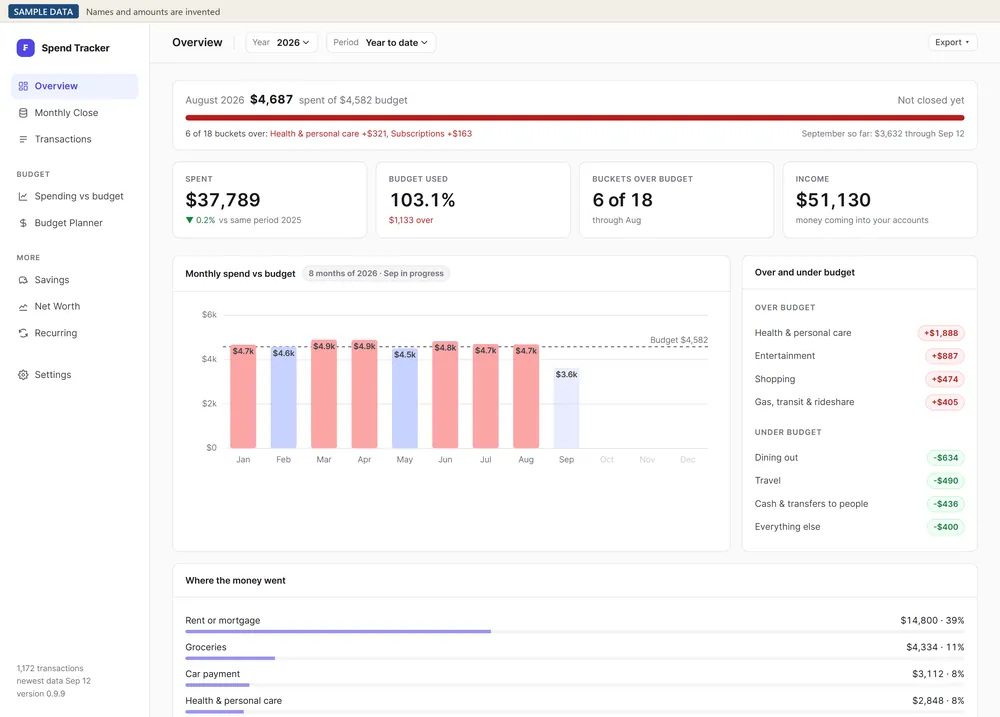
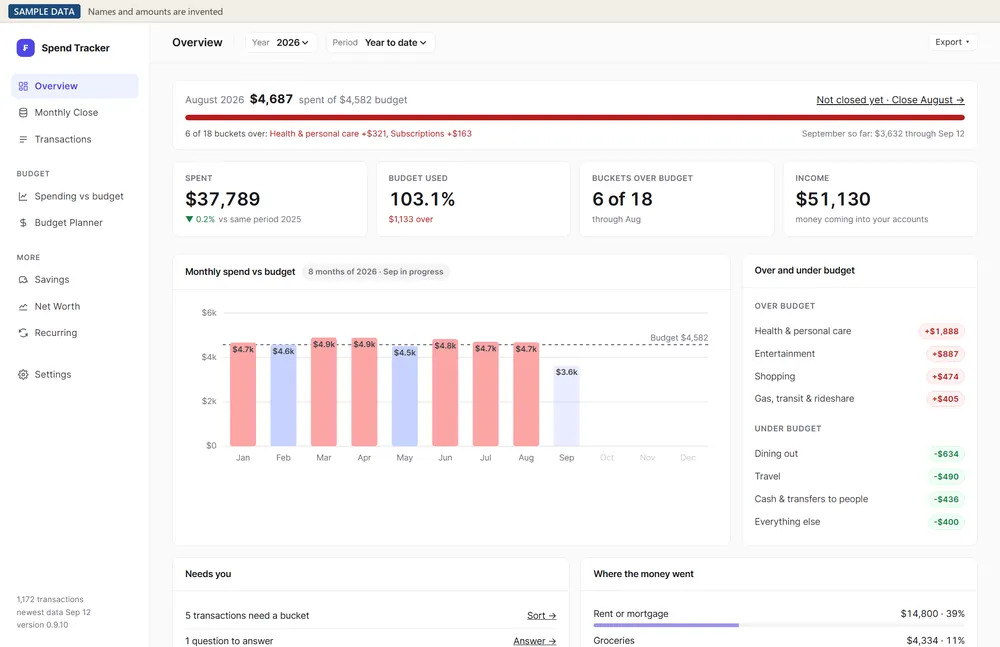
Spend Tracker 0.9.10: 652 tests, one-window app, new overview screenshot

diff --git a/case-studies/spend-tracker.html b/case-studies/spend-tracker.html
@@ -58,13 +58,13 @@ y=l.getElementsByTagName(r)[0];y.parentNode.insertBefore(t,y);
 <div><dt>Role</dt><dd>Built it. I decided what it does and how it behaves, and I test every build. Claude wrote the code, the tests and the docs.</dd></div>
 <div><dt>When</dt><dd>Started August 25, 2026. In testing now.</dd></div>
 <div><dt>Tools</dt><dd>Python (standard library only), JavaScript, GitHub Actions, Claude</dd></div>
-<div class="results"><dt>Results</dt><dd><ul><li>393 automated tests, all passing</li><li>Windows and Mac installers</li><li>Our household's monthly close runs on it</li></ul></dd></div>
+<div class="results"><dt>Results</dt><dd><ul><li>652 automated tests, all passing</li><li>Windows and Mac installers</li><li>Our household's monthly close runs on it</li></ul></dd></div>
 </dl>
 
 <p>You can <a href="https://github.com/growingtendies/spend-tracker/releases/latest" rel="noopener" target="_blank">download the test version</a> for Windows or Mac and try it on the built-in sample household.</p>
 
 <figure class="breakout shot full">
-<a href="../visuals/png/spend-overview.png" data-zoom><img src="../visuals/png/spend-overview.png" srcset="../visuals/png/spend-overview-1000.webp 1000w, ../visuals/png/spend-overview-2000.webp 2000w" sizes="(min-width: 820px) 680px, calc(100vw - 40px)" width="1440" height="1032" alt="Sample data: the overview, with spending against budget each month and the buckets that moved most, on the app&#x27;s built-in fictional household." fetchpriority="high"></a>
+<a href="../visuals/png/spend-overview.png" data-zoom><img src="../visuals/png/spend-overview.png" srcset="../visuals/png/spend-overview-1000.webp 1000w, ../visuals/png/spend-overview-2000.webp 2000w" sizes="(min-width: 820px) 680px, calc(100vw - 40px)" width="1080" height="699" alt="Sample data: the overview, with spending against budget each month and the buckets that moved most, on the app&#x27;s built-in fictional household." fetchpriority="high"></a>
 <figcaption aria-hidden="true">Sample data: the overview, with spending against budget each month and the buckets that moved most, on the app's built-in fictional household. Tap to zoom.</figcaption>
 </figure>
 
@@ -83,6 +83,7 @@ y=l.getElementsByTagName(r)[0];y.parentNode.insertBefore(t,y);
 <li>A setup wizard that recognizes your bank's file, guesses the account type and imports it right away. It comes with settings for six banks and cards, and others work too. The first time you load a file it doesn't recognize, you map the columns once.</li>
 <li>No bank connection. That would've meant more complexity and probably paying for a service like Plaid.</li>
 <li>Everything stays on your computer, and the only thing the app talks to is itself. I like that it's offline, it keeps the data a little more secure than something in the cloud.</li>
+<li>It opens in its own window, and closing the window quits it. Back takes you to the last screen, and every screen remembers where you'd scrolled.</li>
 <li>Installers for Windows and Mac that GitHub builds automatically.</li>
 <li>A made-up household with 10 accounts, so you can look around before loading your own.</li>
 </ul>
@@ -100,7 +101,8 @@ y=l.getElementsByTagName(r)[0];y.parentNode.insertBefore(t,y);
 
 <h2>How I know it works</h2>
 <ul>
-<li>There are 393 automated tests, and they all passed on the September 26 version.</li>
+<li>There are 652 automated tests, and they all passed on version 0.9.10.</li>
+<li>I started that version from my own test of the one before it. A UX review of scrolling and navigation came back with 12 findings, and I had all 12 go into the round. It was built in six steps, each one reviewed, the later ones live in a browser, and then the whole thing got a final review before it shipped.</li>
 <li>It has three guards against counting the same money twice. A card payment from checking isn't counted as spending, since the purchases are already on the card. A Venmo payment funded from checking gets counted once. And four identical $2.90 fares on the same day stay four transactions instead of collapsing into one.</li>
 <li>Nothing gets dropped quietly. Spending in a bucket that isn't in the budget shows up as Unmapped instead of disappearing from the totals.</li>
 <li>I test every build myself, and I run our household's close on it.</li>
@@ -109,7 +111,7 @@ y=l.getElementsByTagName(r)[0];y.parentNode.insertBefore(t,y);
 <h2>Results</h2>
 <ul>
 <li>Our monthly close runs on it now.</li>
-<li>It went from the first commit on August 25 to 195 commits by September 26.</li>
+<li>It went from the first commit on August 25 to 314 commits by September 30.</li>
 </ul>
 
 <div class="fig-row breakout">
@@ -128,16 +130,18 @@ y=l.getElementsByTagName(r)[0];y.parentNode.insertBefore(t,y);
 <li>There's no bank sync, so you download the CSV files yourself. I chose that, but it's still a manual step every month.</li>
 <li>It comes with ready-made settings for Ally, American Express, Bank of America, Capital One, Chase and Venmo, and only Ally, Chase and Venmo are marked verified so far. Every other bank needs that one-time column mapping first.</li>
 <li>The installers aren't signed, so Windows and Mac both warn you the first time you open it.</li>
-<li>If you close the browser halfway through setup, you lose your place. What you already saved stays.</li>
+<li>If you close the app halfway through setup, you lose your place. What you already saved stays.</li>
 <li>I'm the only one testing it so far. The installers are already public on GitHub, and the source goes public once testing is done.</li>
 </ul>
 
 <details class="sources">
 <summary>How these numbers are sourced</summary>
 
-<p>Parsed from the repo at commit 9ae5075 on September 26, 2026: the 9 views, the ready-made bank settings and the 3 marked verified, the server that only listens on the computer it runs on, the standard-library-only code, the Windows and Mac release workflow, the 10-account sample household, the 195 commits since August 25, the three double-count guards, the rule against dropping transactions and the setup limitation.</p>
+<p>Parsed from the repo at commit 9ae5075 on September 26, 2026: the 9 views, the ready-made bank settings and the 3 marked verified, the server that only listens on the computer it runs on, the standard-library-only code, the Windows and Mac release workflow, the 10-account sample household, the first commit on August 25, the three double-count guards, the rule against dropping transactions and the setup limitation.</p>
 
-<p>Run on September 26, 2026 against that commit: 393 tests, all passing.</p>
+<p>Parsed from the repo at commit d87eab3 on September 30, 2026, the merge that became version 0.9.10: the one-window app, the Back button and scroll memory, the 314 commits, and the round's review record, with its 12 findings, six reviewed steps and final review.</p>
+
+<p>Run on September 30, 2026 against that commit: 652 tests, all passing.</p>
 
 <p>My own account: why I built it and what I used before, why there's no bank connection, that I test the builds and run our household's close on it, that it's in testing, when the source goes public, and that Claude writes the code.</p>
 

diff --git a/index.html b/index.html
@@ -104,7 +104,7 @@ leadership.</p>
 <div class="body">
 <h3 class="t" id="t-spend-tracker">Spend Tracker</h3>
 <p class="d" id="d-spend-tracker">I kept building budget spreadsheets and then getting too lazy to update them, so I built this. You drop in your bank's CSV exports and it sorts every transaction, tracks budget vs actual and walks you through a monthly close. Everything stays on your computer, with no bank connection and no cloud.</p>
-<p class="n">In testing · 393 automated tests · test version downloadable for Windows and Mac</p>
+<p class="n">In testing · 652 automated tests · test version downloadable for Windows and Mac</p>
 <p class="go" aria-hidden="true">Read the case study &rarr;</p>
 </div>
 </a>
